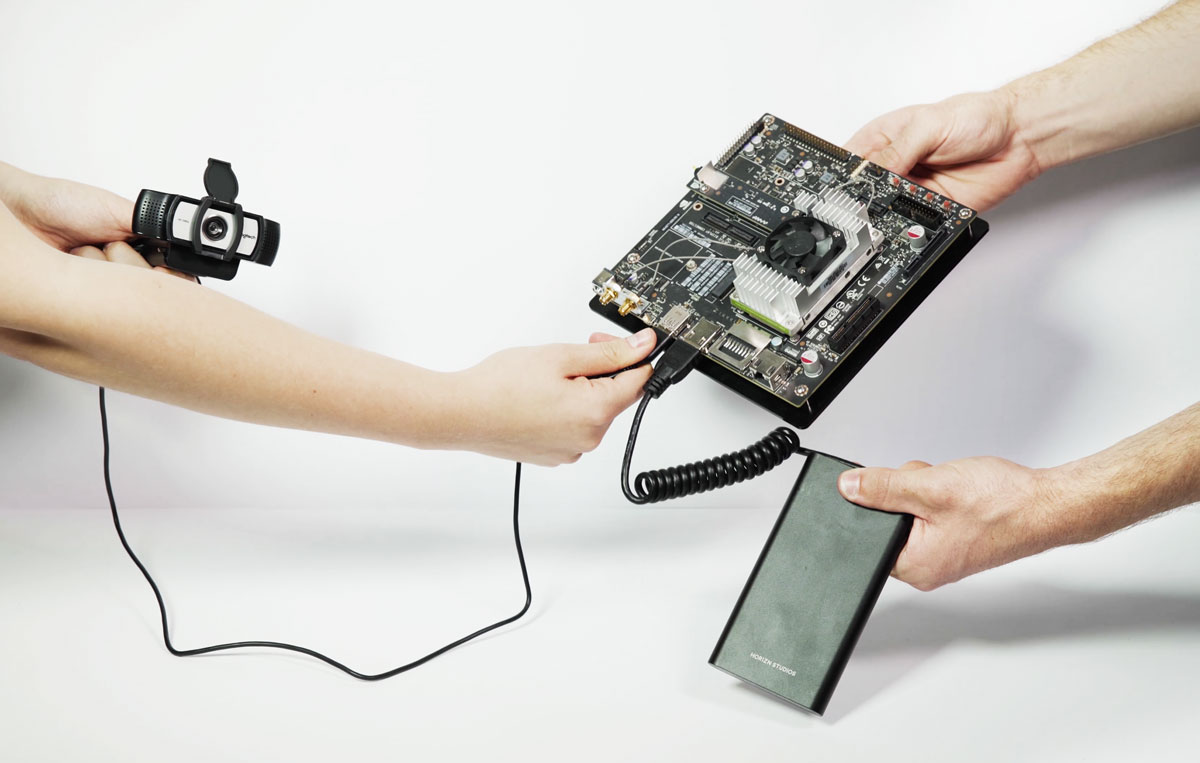
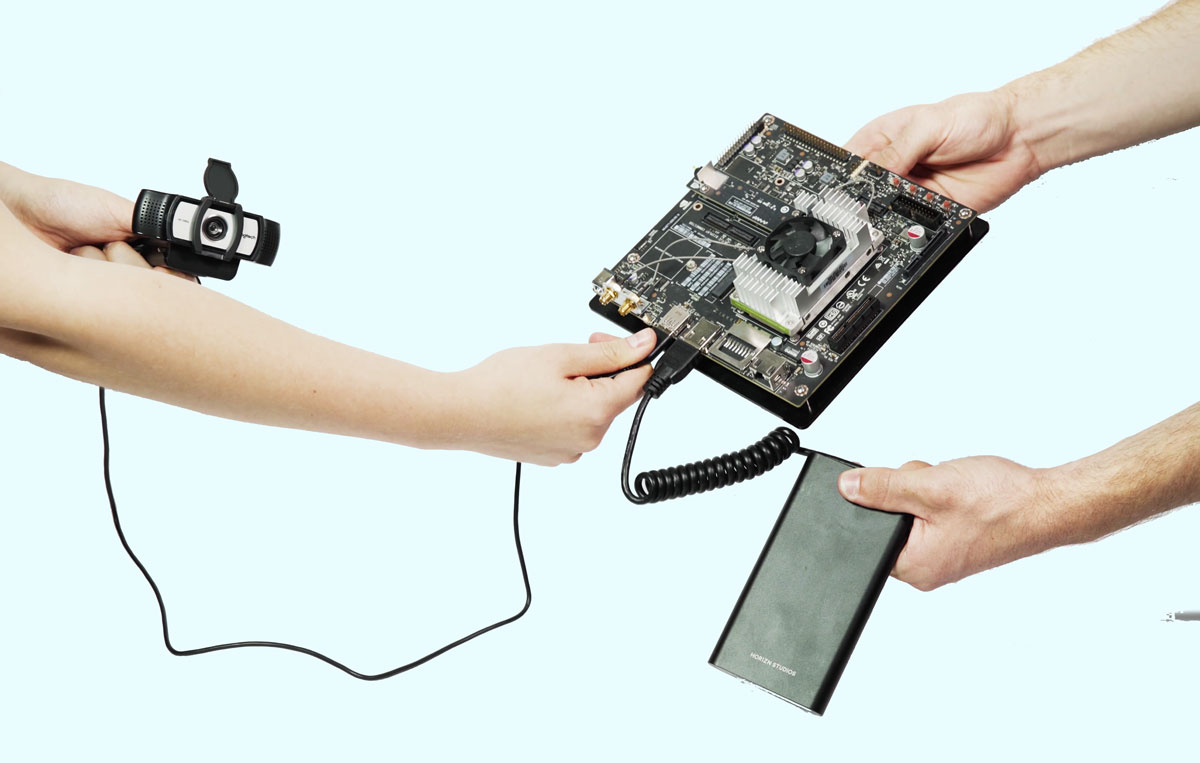
WIP: Images

diff --git a/pages/index.js b/pages/index.js
@@ -638,7 +638,7 @@ export default () => (
         height: 100%;
         width: 100%;
         position: absolute;
-        opacity: 0.5;
+        opacity: 0.2;
       }
       .footer {
         background-color: #1d1d1d;
